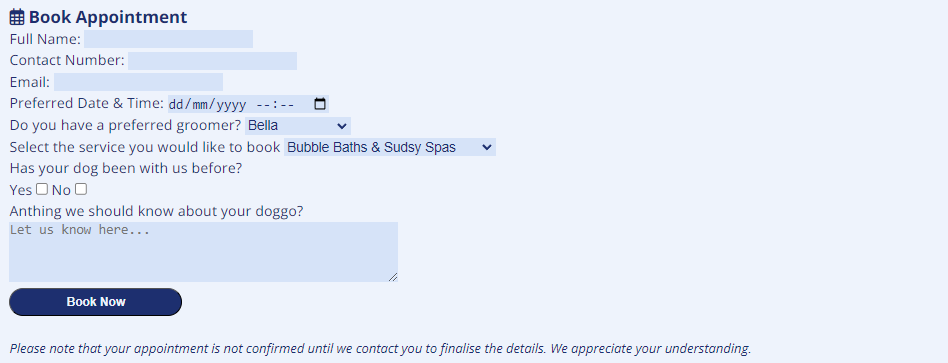
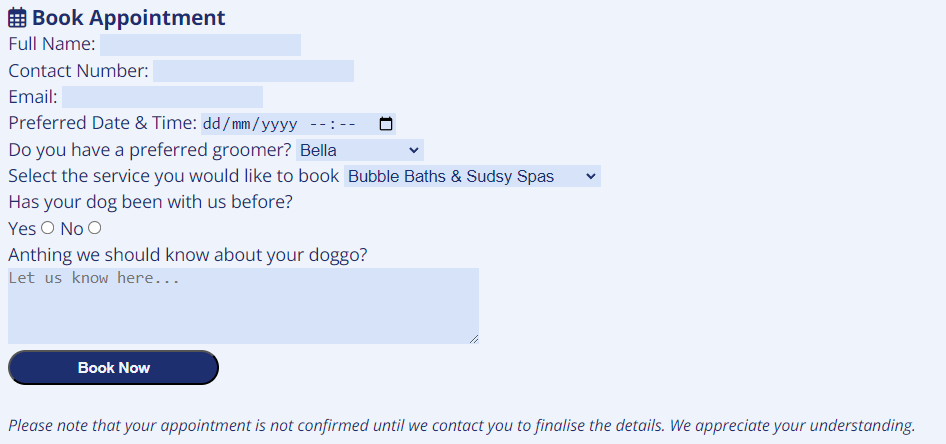
docs: add README.md file

diff --git a/README.md b/README.md
@@ -58,6 +58,17 @@ The [Fuzzy Paws Dog Grooming](https://catgriffin85.github.io/project-portfolio-1
     * And finallly an introduction to the groomers with some images of them grooming
 ![Team Information](./assets/images/readme/meetTheTeam.png)
 
+## Testing
 
-    
+* Lighthouse
+    * I ran my pages through Lighthouse to check Performance, Accessibility, Best Practices and SEO. All passed with scores of 97 or greater.
+![Lighthouse](./assets/images/readme/lighthouseResults.png)
 
+* Page Links
+    * I tested all my links on the Nav Bar and the call to action button on the main page to ensure they were all working and redirecting to the correct pages on the website.
+    * I tested the social media links in the footer were working and opening in a new tab.
+    * I tested the appointment booking form and confirmed all the boxes were validated, only one radio button was selected and the submit button was working correctly.
+![Form Confirmation](./assets/images/readme/formConfirmation.png)
+
+* HTML
+    * I ran my HTML code through the W3C validator and no errors were found
